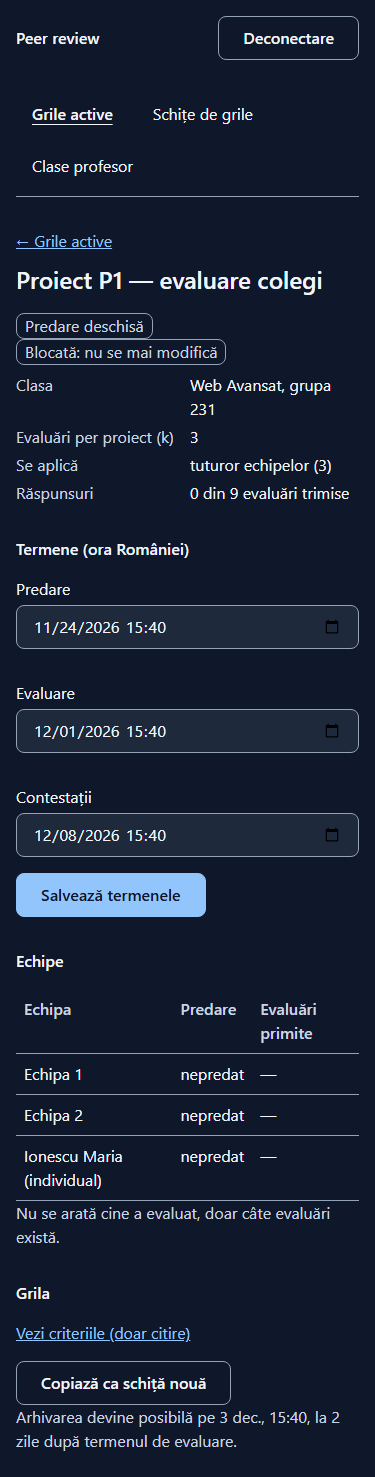
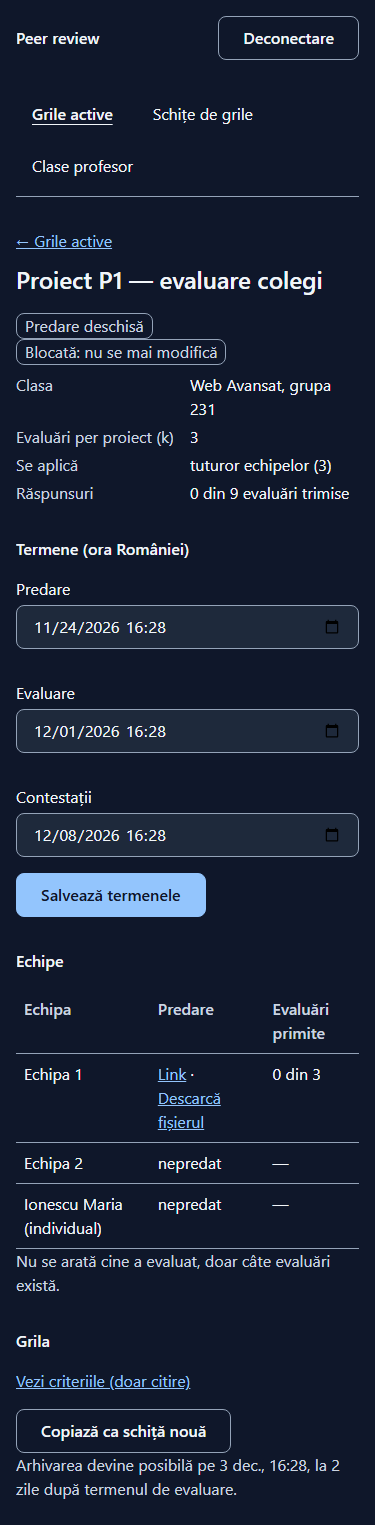
feat(web): student assignments page with the submission form, download links for the professor (D-016)
Replaces the student start page (DS-pr-home, now deprecated). Checked end
to end locally: a PDF naming its author comes back under a generic name
with no trace of the name.

diff --git a/web/src/pages/MyAssignmentsPage.tsx b/web/src/pages/MyAssignmentsPage.tsx
@@ -1,0 +1,182 @@
+import { FormEvent, useState } from 'react';
+import { Link } from 'react-router';
+import { api, MyAssignment, submitProject } from '../api';
+import { formatShort } from '../dates';
+import { ErrorText, Loaded } from '../Layout';
+import { useLoad } from '../useLoad';
+import { PHASE_LABELS } from './ActiveRubricsPage';
+
+const MAX_FILE_BYTES = 10 * 1024 * 1024;
+
+/** DS-pr-my-assignments: a student's assignments and their team's submission (D-016). */
+export function MyAssignmentsPage() {
+  const state = useLoad(() => api.myAssignments(), []);
+
+  return (
+    <>
+      <div className="toolbar">
+        <h1>Temele mele</h1>
+        <Link to="/echipa">Intră într-o echipă cu un cod</Link>
+      </div>
+      <Loaded state={state}>
+        {(assignments) =>
+          assignments.length === 0 ? (
+            <p className="muted">
+              Nu ai încă nicio temă. Intră în echipa ta cu codul primit de la profesor; temele trimise clasei tale apar
+              aici.
+            </p>
+          ) : (
+            <ul className="list">
+              {assignments.map((assignment) => (
+                <li className="item" key={assignment.id}>
+                  <AssignmentCard
+                    assignment={assignment}
+                    onSubmitted={(updated) =>
+                      state.setData(assignments.map((a) => (a.id === updated.id ? updated : a)))
+                    }
+                  />
+                </li>
+              ))}
+            </ul>
+          )
+        }
+      </Loaded>
+    </>
+  );
+}
+
+function AssignmentCard({
+  assignment: a,
+  onSubmitted,
+}: {
+  assignment: MyAssignment;
+  onSubmitted: (assignment: MyAssignment) => void;
+}) {
+  const open = new Date(a.submissionDeadline).getTime() > Date.now();
+  return (
+    <>
+      <h2>{a.title}</h2>
+      <p>
+        Clasa: {a.className} · Echipa ta: {a.teamName}
+      </p>
+      {a.description && <p>{a.description}</p>}
+      <p className="muted">
+        Predare până pe {formatShort(a.submissionDeadline)} · Evaluare până pe {formatShort(a.reviewDeadline)}
+      </p>
+      <p>
+        <span className="badge">{PHASE_LABELS[a.phase]}</span>{' '}
+        {a.submission ? `Predat pe ${formatShort(a.submission.updatedAt)}` : 'Nu ați predat încă.'}
+      </p>
+      {a.submission && (
+        <dl className="facts">
+          <dt>Link</dt>
+          <dd>
+            <a href={a.submission.link} target="_blank" rel="noreferrer noopener">
+              {a.submission.link}
+            </a>
+          </dd>
+          <dt>Fișier</dt>
+          <dd>
+            <a href={a.submission.fileUrl}>Descarcă fișierul predat ({a.submission.fileType.toUpperCase()})</a>
+          </dd>
+        </dl>
+      )}
+      {open ? (
+        <SubmissionForm assignment={a} onSubmitted={onSubmitted} />
+      ) : (
+        <p className="muted">
+          {a.submission
+            ? 'Termenul de predare a trecut; predarea nu se mai poate schimba.'
+            : 'Termenul de predare a trecut fără o predare a echipei tale.'}
+        </p>
+      )}
+    </>
+  );
+}
+
+function SubmissionForm({
+  assignment: a,
+  onSubmitted,
+}: {
+  assignment: MyAssignment;
+  onSubmitted: (assignment: MyAssignment) => void;
+}) {
+  const [link, setLink] = useState(a.submission?.link ?? '');
+  const [description, setDescription] = useState(a.submission?.description ?? '');
+  const [file, setFile] = useState<File | null>(null);
+  const [error, setError] = useState<string | null>(null);
+  const [notice, setNotice] = useState<string | null>(null);
+  const [sending, setSending] = useState(false);
+  const id = (name: string) => `${name}-${a.id}`;
+
+  async function send(event: FormEvent<HTMLFormElement>) {
+    event.preventDefault();
+    const form = event.currentTarget;
+    setError(null);
+    setNotice(null);
+    if (!file) {
+      setError('Încarcă fișierul proiectului (PDF sau DOCX).');
+      return;
+    }
+    if (file.size > MAX_FILE_BYTES) {
+      setError('Fișierul are cel mult 10 MB.');
+      return;
+    }
+    setSending(true);
+    try {
+      onSubmitted(await submitProject(a.id, link, description, file));
+      setNotice('Proiectul a fost predat.');
+      setFile(null);
+      form.reset();
+    } catch (failure) {
+      setError((failure as Error).message);
+    } finally {
+      setSending(false);
+    }
+  }
+
+  return (
+    <form className="section" aria-label="Predarea echipei" onSubmit={send} noValidate>
+      <h2>{a.submission ? 'Înlocuiește predarea' : 'Predarea echipei'}</h2>
+      <div className="field">
+        <label htmlFor={id('link')}>Linkul proiectului</label>
+        <input
+          id={id('link')}
+          type="url"
+          placeholder="https://..."
+          value={link}
+          maxLength={2000}
+          onChange={(event) => setLink(event.target.value)}
+        />
+      </div>
+      <p className="muted">
+        Linkul și fișierul ajung la colegi fără numele tău. Nu pune în link numele tău sau al colegilor de echipă (de
+        exemplu, un repo pe contul tău personal).
+      </p>
+      <div className="field">
+        <label htmlFor={id('description')}>Descriere (opțional)</label>
+        <textarea
+          id={id('description')}
+          value={description}
+          maxLength={2000}
+          onChange={(event) => setDescription(event.target.value)}
+        />
+      </div>
+      <div className="field">
+        <label htmlFor={id('file')}>Fișierul proiectului (PDF sau DOCX, cel mult 10 MB)</label>
+        <input
+          id={id('file')}
+          type="file"
+          accept=".pdf,.docx,application/pdf,application/vnd.openxmlformats-officedocument.wordprocessingml.document"
+          onChange={(event) => setFile(event.target.files?.[0] ?? null)}
+        />
+      </div>
+      <p className="muted">Autorul din fișier se șterge automat înainte să fie salvat.</p>
+      {error && <ErrorText message={error} />}
+      {notice && <p role="status">{notice}</p>}
+      <button className="primary inline" type="submit" disabled={sending}>
+        {sending ? 'Se încarcă…' : a.submission ? 'Înlocuiește predarea' : 'Predă proiectul'}
+      </button>
+    </form>
+  );
+}

diff --git a/web/src/api.ts b/web/src/api.ts
@@ -74,7 +74,37 @@ export interface AssignmentSummary extends Deadlines {
 export interface AssignmentDetail extends AssignmentSummary {
   rubric: Rubric;
   archivableFrom: string;
-  teams: { id: string; name: string; memberNames: string; evaluated: boolean; submitted: boolean; reviewsReceived: number }[];
+  teams: {
+    id: string;
+    name: string;
+    memberNames: string;
+    evaluated: boolean;
+    submitted: boolean;
+    reviewsReceived: number;
+    link: string | null;
+    description: string | null;
+    fileUrl: string | null;
+  }[];
+}
+
+export interface Submission {
+  id: string;
+  link: string;
+  description: string | null;
+  fileType: 'pdf' | 'docx';
+  fileUrl: string;
+  submittedAt: string;
+  updatedAt: string;
+}
+
+export interface MyAssignment extends Deadlines {
+  id: string;
+  title: string;
+  description: string | null;
+  className: string;
+  teamName: string;
+  phase: Phase;
+  submission: Submission | null;
 }
 
 export interface ClassSummary {
@@ -175,7 +205,21 @@ export async function logout(): Promise<void> {
   }
 }
 
+/** Uploads a team's link, description and file (D-016); multipart, so not through request(). */
+export async function submitProject(assignmentId: string, link: string, description: string, file: File): Promise<MyAssignment> {
+  const form = new FormData();
+  form.append('link', link);
+  form.append('description', description);
+  form.append('file', file);
+  const response = await call(`/my/assignments/${assignmentId}/submission`, { method: 'PUT', body: form });
+  if (!response.ok) {
+    throw await failure(response);
+  }
+  return response.json();
+}
+
 export const api = {
+  myAssignments: () => request<MyAssignment[]>('GET', '/my/assignments'),
   drafts: () => request<RubricSummary[]>('GET', '/rubrics'),
   rubric: (id: string) => request<Rubric>('GET', `/rubrics/${id}`),
   createRubric: (title: string, criteria: CriterionInput[]) => request<Rubric>('POST', '/rubrics', { title, criteria }),

diff --git a/web/src/App.tsx b/web/src/App.tsx
@@ -1,7 +1,6 @@
 import { useEffect, useState } from 'react';
 import { BrowserRouter, Navigate, Route, Routes } from 'react-router';
 import { fetchCurrentUser, User } from './api';
-import { HomePage } from './HomePage';
 import { Layout } from './Layout';
 import { LoginPage } from './LoginPage';
 import { ActiveRubricDetailPage } from './pages/ActiveRubricDetailPage';
@@ -9,6 +8,7 @@ import { ActiveRubricsPage } from './pages/ActiveRubricsPage';
 import { ClassDetailPage } from './pages/ClassDetailPage';
 import { ClassesPage } from './pages/ClassesPage';
 import { JoinTeamPage } from './pages/JoinTeamPage';
+import { MyAssignmentsPage } from './pages/MyAssignmentsPage';
 import { ProfessorRubricsPage, ProfessorsPage } from './pages/ProfessorsPage';
 import { RubricDraftsPage } from './pages/RubricDraftsPage';
 import { RubricEditorPage } from './pages/RubricEditorPage';
@@ -64,7 +64,7 @@ export function App() {
             </>
           ) : (
             <>
-              <Route index element={<HomePage user={user} />} />
+              <Route index element={<MyAssignmentsPage />} />
               <Route path="echipa" element={<JoinTeamPage />} />
             </>
           )}

diff --git a/web/src/pages/ActiveRubricDetailPage.tsx b/web/src/pages/ActiveRubricDetailPage.tsx
@@ -134,7 +134,20 @@ function Detail({ assignment: a, onChange }: { assignment: AssignmentDetail; onC
               {a.teams.map((team) => (
                 <tr key={team.id}>
                   <td>{team.name}</td>
-                  <td>{!team.evaluated ? 'nu e evaluată' : team.submitted ? 'predat' : 'nepredat'}</td>
+                  <td>
+                    {!team.evaluated ? (
+                      'nu e evaluată'
+                    ) : team.link && team.fileUrl ? (
+                      <>
+                        <a href={team.link} target="_blank" rel="noreferrer noopener">
+                          Link
+                        </a>{' '}
+                        · <a href={team.fileUrl}>Descarcă fișierul</a>
+                      </>
+                    ) : (
+                      'nepredat'
+                    )}
+                  </td>
                   <td>{team.evaluated && team.submitted ? `${team.reviewsReceived} din ${a.k}` : '—'}</td>
                 </tr>
               ))}

diff --git a/web/src/pages/JoinTeamPage.tsx b/web/src/pages/JoinTeamPage.tsx
@@ -50,7 +50,7 @@ export function JoinTeamPage() {
       </button>
       <p className="muted after">Profesorul vede doar câte persoane au intrat în echipă, nu cine.</p>
       <p>
-        <Link to="/">← Pagina de start</Link>
+        <Link to="/">← Temele mele</Link>
       </p>
     </form>
   );

diff --git a/README.md b/README.md
@@ -115,12 +115,12 @@ Gata:
 - deploy pe Render, cu baza de date pe Supabase;
 - pentru profesor și admin: schițe de grile, trimiterea unei grile către o clasă, grile active cu termene, clase și echipe cu cod de intrare;
 - pentru admin: grilele fiecărui profesor, doar citire;
-- pentru student: intrarea în echipă cu codul primit.
+- pentru student: intrarea în echipă cu codul primit și predarea proiectului (link și fișier PDF sau DOCX curățat de autor) până la termenul de predare.
 
 Nu e gata:
 
 - înscrierea prin link cu email `@ulbsibiu.ro` verificat;
-- predările, alocarea, evaluările, agregarea și contestațiile;
+- alocarea, evaluările, agregarea și contestațiile;
 - pilotul cu colegii.
 
 Lista de task-uri este în [TODO.md](TODO.md), iar întrebările deschise în [docs/agents/OPEN-QUESTIONS.md](docs/agents/OPEN-QUESTIONS.md).

diff --git a/TODO.md b/TODO.md
@@ -23,8 +23,8 @@
 - [x] Clase și echipe cu cod, schițe de grile (1–100 criterii), trimiterea către o clasă, grile active cu termene (D-011–D-015)
 - [ ] Termenele aplicate la predare, evaluare și contestații (cu jobul programat)
 - [ ] Job programat cu pg-boss pentru închiderea fazelor și notificări
-- [ ] Predări cu link și fișier, în object storage
-- [ ] Curățarea metadatelor din PDF și DOCX; servire prin proxy, fără numele original
+- [x] Predări cu link și fișier, în Supabase Storage (D-016)
+- [x] Curățarea metadatelor din PDF și DOCX; servire prin proxy, fără numele original
 - [ ] Alocarea evaluatorilor cu toate constrângerile
 - [ ] Sosiri târzii și retrageri, cu realocare minimală
 - [ ] Evaluare double-blind cu feedback obligatoriu per criteriu
